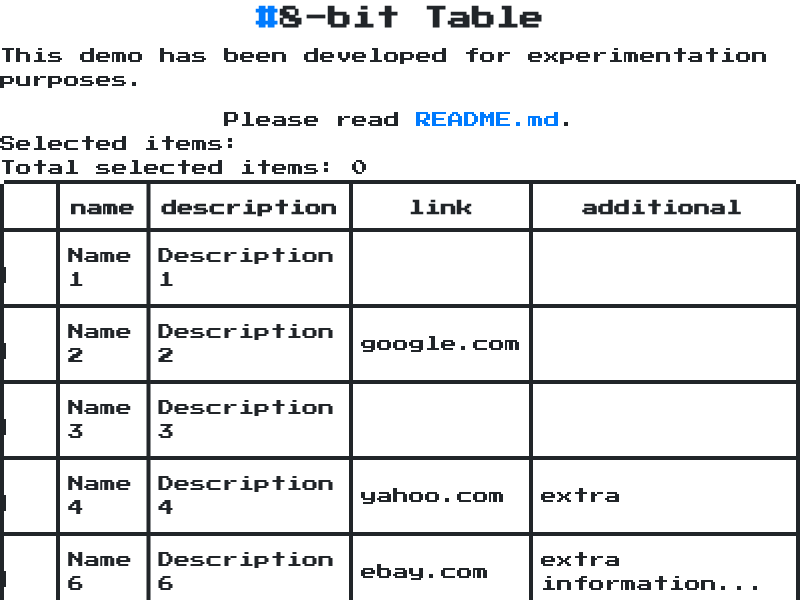
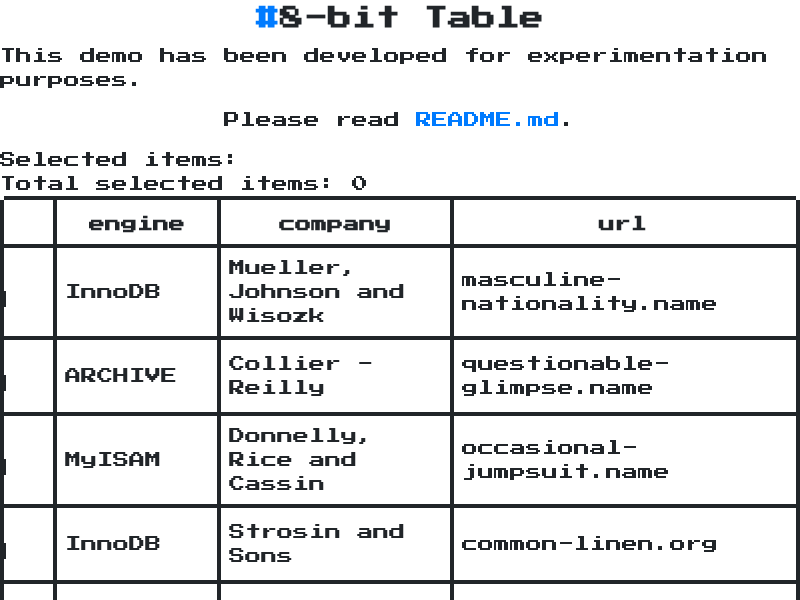
Add fake data generated for 100 rows

Changed region(s): [[0.0, 0.21, 1.0, 1.0]]

diff --git a/deps.ts b/deps.ts
@@ -4,9 +4,6 @@ import React from "https://jspm.dev/react@17.0.2";
 import ReactDOMServer from "https://jspm.dev/react-dom@17.0.2/server";
 // @deno-types="https://denopkg.com/soremwar/deno_types/react-dom/v16.13.1/react-dom.d.ts"
 import ReactDOM from "https://jspm.dev/react-dom@17.0.2";
+import * as faker from 'https://esm.sh/@faker-js/faker';
 
-// import React from "npm:react@^18.2";
-// import ReactDOMServer from "npm:react-dom@^18.2/server";
-// import ReactDOM from "npm:react-dom@^18.2";
-
-export { React, ReactDOM, ReactDOMServer }
+export { React, ReactDOM, ReactDOMServer, faker }

diff --git a/seed/data.ts b/seed/data.ts
@@ -1,0 +1,18 @@
+import { faker } from '../deps.ts';
+import { TListItem } from '../types.ts'
+
+const fake = faker.faker
+
+export const RANDOM_SEED_DATA: TListItem[] = [];
+
+const generateRandomSeedData = (): TListItem => {
+  return {
+    engine: fake.database.engine(),
+    company: fake.company.name(),
+    url: fake.internet.domainName()
+  };
+}
+
+Array.from({ length: 100 }).forEach(() => {
+  RANDOM_SEED_DATA.push(generateRandomSeedData());
+});

diff --git a/routes/home.tsx b/routes/home.tsx
@@ -3,9 +3,9 @@ import { React, ReactDOMServer } from "../deps.ts";
 import App from '../components/App.tsx'
 import { TListItem } from '../types.ts'
 
-import data from "../seed/data.json" assert { type: "json" };
+import { RANDOM_SEED_DATA } from '../seed/data.ts'
 
-const INITIAL_DATA: TListItem[] = data
+const INITIAL_DATA: TListItem[] = RANDOM_SEED_DATA
 
 async function home(req: Request): Promise<Response> {
   const { method } = req;

diff --git a/assets/style.css b/assets/style.css
@@ -1,5 +1,4 @@
 .gentle-flex {
   display: grid;
   place-items: center;
-  height: 100vh;
 }

diff --git a/README.md b/README.md
@@ -48,11 +48,11 @@ yarn run test
 
 ### Technical Considerations
 
-- [Deno](https://deno.land/manual@v1.28.1/introduction) (with Typescript)
+__[Deno](https://deno.land/manual@v1.28.1/introduction) (with Typescript)__
 
 As Deno as a new runtime with a first-class support for Typescript, it is thought to be chosen as the primary selection for a better experience without having any hassle like a Typescript configuration in a regular setup. That's also valuable to consider that Deno is kinda plug & play runtime which allows us to choose whatever client-side library, like React.
 
-- [Isomorphic SPA](https://www.oreilly.com/library/view/building-isomorphic-javascript/9781491932926/ch01.html)
+__[Isomorphic SPA](https://www.oreilly.com/library/view/building-isomorphic-javascript/9781491932926/ch01.html)__
 
 That's basically for getting the Time-to-First-Byte (TTFB) faster than a regular Single-Page Application. Again, due to the loading & executing of the client-side Javascript, there is always a gap to get the app interactive, but at least, until that time (during the first ~800ms - 1.5 sec.), the user can see the app appears within the browser. That will also let us keep staying & waiting the app gets interactive. That approach also helps for SEO which means the app is crawlable via search engine bots.
 
@@ -64,21 +64,25 @@ Server-side is containing 2 (two) endpoints like the following:
 `assets/:path` => the static assets directory for serving `client.js` (the actual bundle for having the app running within the client-side and gets active => `http://localhost:8000/assets/client.js`) & `style.css` for styles.
 
 
-- [Docker](https://docs.docker.com/get-started/overview/) (with [Docker Compose](https://docs.docker.com/compose/))
+__[Docker](https://docs.docker.com/get-started/overview/) (with [Docker Compose](https://docs.docker.com/compose/))__
 
 Having sanitized environments may be critical regarding running applications without side effects and specific environment configurations based on where the app runs within. So preferred a simple setup to run the service itself via Docker. I've added Docker Compose as assuming that in the future iterations, developer may prefer to separate the tests over Docker (Compose) setup.
 
-- 8-bit Design (with [NES.css](https://nostalgic-css.github.io/NES.css/))
+__8-bit Design (with [NES.css](https://nostalgic-css.github.io/NES.css/))__
 
 Just to make it look fancy. Hope it doesn't hurt the eyes staring at ;)
 
+__[Faker.js](https://github.com/faker-js/faker)__
+
+For having the data generated randomly. They're currently 100 items within the list.
+
 ### Potential Improvements
 
-- Tests can be improved.
+__Tests can be improved (with more proper tests in place).__
 
 Recently we're running the a headless browser to take the screenshot of the application with the foundation of the test suite itself. A set of rules (eg. "Once I click on the first checkbox & the last checkbox, the selected items text to be updated to '0, 2' and the total selected items text to be updated as '2'")
 
-- The app can become more dynamic with HTTP POST support.
+__The app can become more dynamic with HTTP POST support.__
 
 The app itself has designed to also accept POST requests as once the payload from such request can be taken and to be used to struct the table from the server-side, too, as we're also supporting for Server-Side Rendering with an isomorphic approach. So an example can create a table over payload from a POST request like the following:
 
@@ -88,12 +92,11 @@ curl -X POST -H "Content-Type: application/json" \
     http://localhost:8000/
 ```
 
-- Docker setup can be more flexible.
+__Docker setup can be more flexible. (as prod/web & test)__
 Recently, we have a setup to let the user (developer) to run the app & the test separately (as commented within the respective Dockerfile). That can be activated & extended into a more granular structure to have them run synchronously on every time the code is changed for a better development experience.
 
-- The can can be deployed to & served from an edge CDN.
+__The can can be deployed to & served from an edge CDN.__
 As we have the opportunity today to get the app served from a CDN (at least the client-side code bundle), then the TTB would be faster due to the nature of CDNs located within an edge network based on serving content from a nearer location.
 
-- CI/CD can be automated better via Github Actions
-
+__CI/CD can be automated better via Github Actions__
 Once the tests are introduced, as it will be easier to differentiate the processes, it will help for deployment purposes, too, via Github Actions for a granular transition from the code to 'live' as production.
